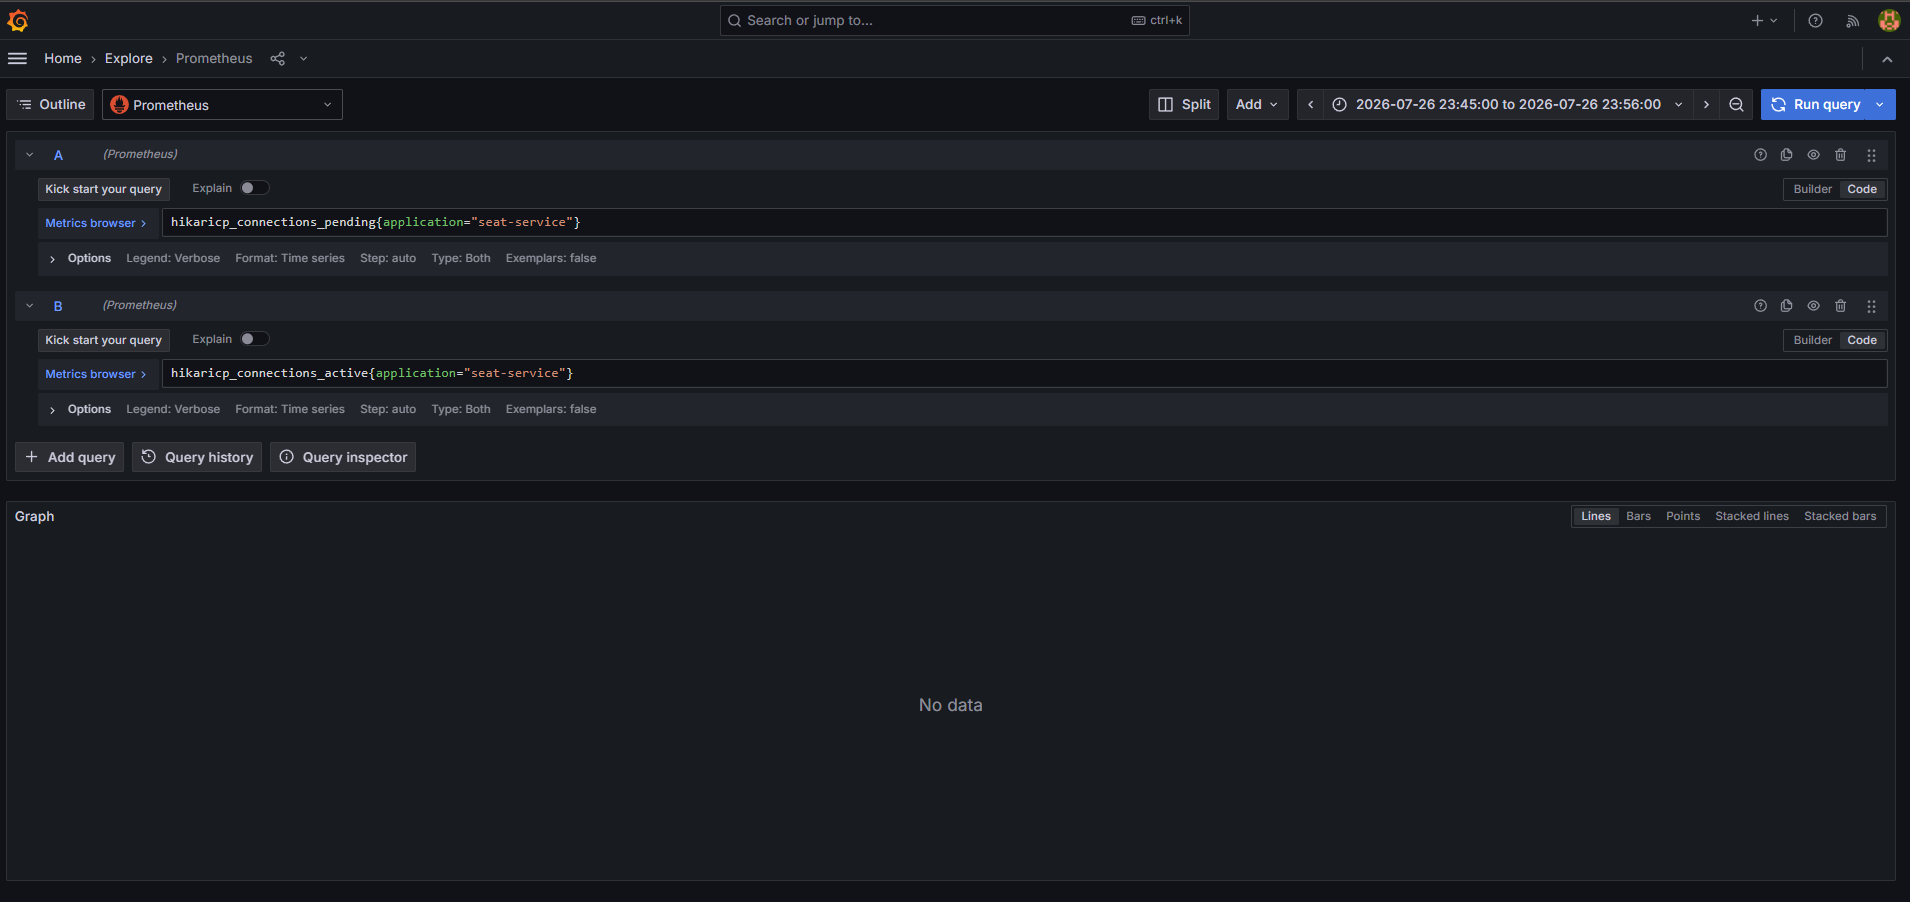
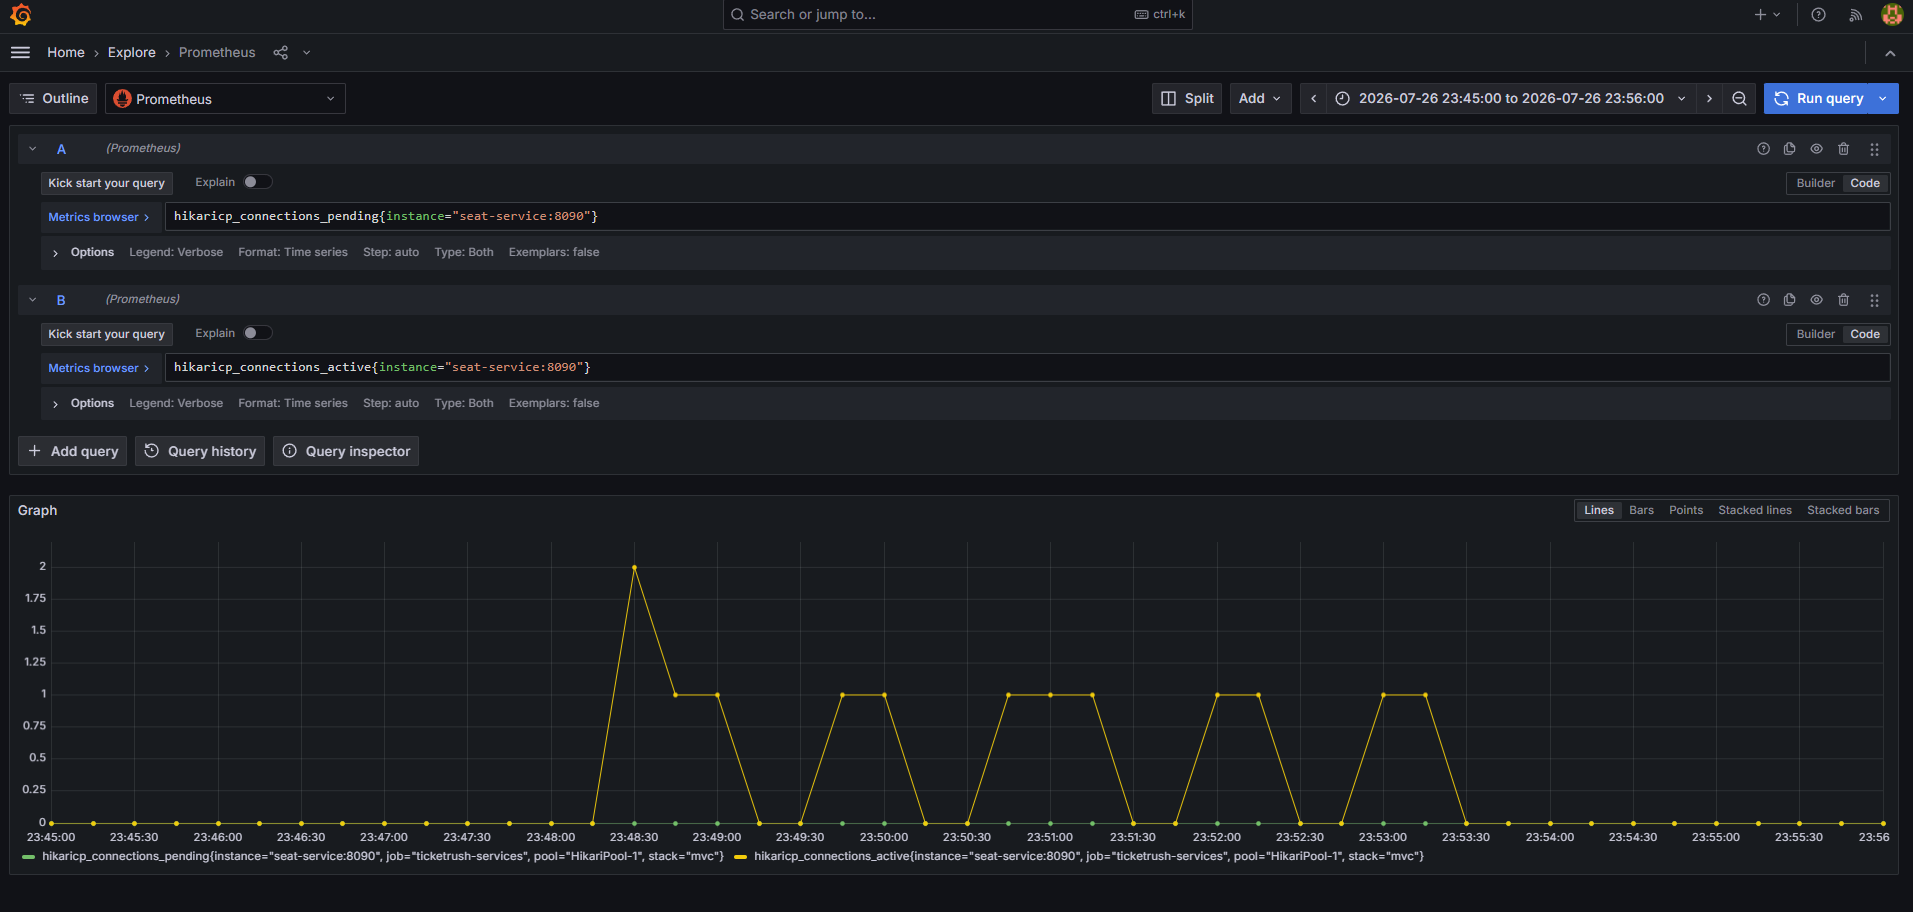
[Docs] #489 Grafana 캡처 4장 추가 — active 피크가 리포트 서술을 반증했다
라벨을 고친 뒤 재캡처한 relay-rate·hikari 를 포함해 4장을 넣었다.

hikari 그래프가 리포트를 반증했다. "pending 0, active 0" 이라고 적었는데 실제 active 는
tick 마다 1~2 로 오르내리고 피크가 2 다. 측정이 끝난 뒤 actuator 를 긁어 단발값 0 을 보고
쓴 것이었다. #345 는 피크 1 이었으니 배치 3배의 대가가 실제로 관측된 유일한 지점이다.
풀 크기 10 에 pending 이 0 이라 대기는 없지만, 수치를 정정하고 어떻게 틀렸는지도 남겼다.

relay-rate 는 sum by (instance) 로 서비스별 곡선이 갈렸다 — 각 44.4/s 로 거의 겹친다.
합쳐서 90/s 로 보이던 이전 캡처의 정체가 이것이다.

나머지 둘은 첫 캡처 그대로 쓴다. seat 적체는 10,000 → 0 계단이 5 tick 으로 선명하고,
outbox backlog 는 tick 마다 0 으로 돌아오는 톱니가 그대로 보인다.

diff --git a/load-tests/k6/results/260726-489-relay-throughput/report.md b/load-tests/k6/results/260726-489-relay-throughput/report.md
@@ -45,7 +45,11 @@
 
 **중복 발행 증폭은 없었다.** 코호트 10,000건에 대해 `relay_total{result="success"}`가 seat 10,005 / booking 10,000이다(seat의 +5는 코호트 밖 이벤트). #344에서 in-flight 가드 도입 전 3.09배 증폭이 실측됐던 것을 감안하면, 가드가 배치 300에서도 정상 동작했다.
 
-**커넥션 풀 압박 없음.** `hikaricp_connections_pending` 0, `active` 0. 만료 fallback이 단일 스레드 경로라는 #345 §5의 구조적 결론이 배치 상향 후에도 유지된다.
+**커넥션 풀 압박 없음.** `hikaricp_connections_pending`이 측정 전 구간 **0**이다. 만료 fallback이 단일 스레드 경로라는 #345 §5의 구조적 결론이 배치 상향 후에도 유지된다.
+
+다만 `hikaricp_connections_active`는 **피크 2**로, #345의 피크 1보다 하나 늘었다(tick마다 1~2로 오르내린다 — `graph-hikari.png`). 만료 처리 스레드와 릴레이 스레드가 겹치는 순간이 배치가 커지면서 길어진 것으로 보인다. 풀 크기가 10이라 여유가 크고 `pending`이 0인 이상 대기는 발생하지 않지만, **배치 상향의 대가가 실제로 관측된 유일한 지점**이므로 기록해 둔다.
+
+> 측정 종료 직후 actuator를 긁었을 때는 `active` 0이었다. 그 단발값만 보고 "active 0"으로 적었다가 Grafana 캡처에서 잡혔다 — 게이지의 순간값과 구간 최댓값을 구분해야 한다는 #345 §11.7의 교훈과 같은 종류다.
 
 **`lockAtMostFor="1m"` 초과 위험은 이 토폴로지에서 재현되지 않는다.** `dispatch()`가 배치를 순차로 `send()` 하고 그 호출이 `MAX_BLOCK_MS`(5초)까지 블로킹될 수 있으므로 최악 소요는 배치 크기에 비례하지만, 단일 인스턴스 배포라 락이 풀려도 동시 진입할 다른 노드가 없다. 다중 인스턴스로 가면 이 축을 다시 봐야 한다. 이번 회차에서 간접 증거는 위의 "증폭 없음"이다.
 
@@ -88,4 +92,4 @@
 | `graph-seat-expired-backlog.png` | 좌석 소진 계단 — 10,000 → 0, 정확히 5 tick |
 | `graph-outbox-backlog-inflight.png` | outbox 적체가 tick마다 0으로 돌아오는 톱니. in-flight 피크는 15초 스크랩이 놓치므로 CSV로 읽는다 |
 | `graph-relay-rate.png` | 발행률 |
-| `graph-hikari.png` | 커넥션 풀 — 전 구간 pending 0 |
+| `graph-hikari.png` | 커넥션 풀 — pending 전 구간 0, active 피크 2 |
